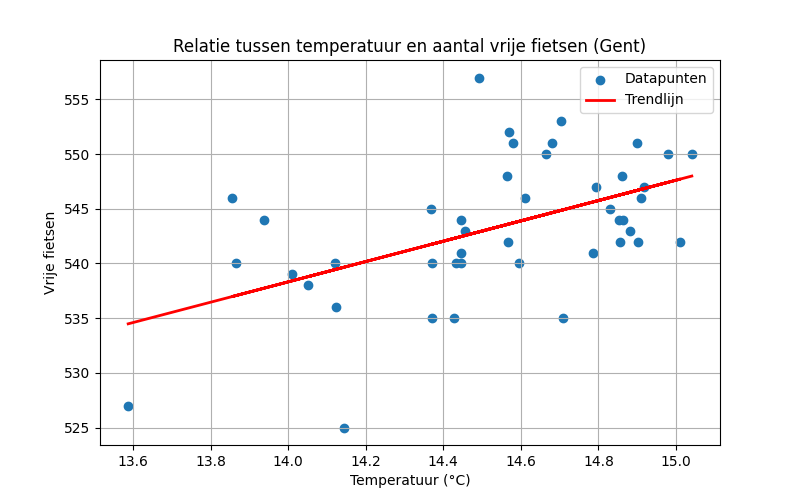
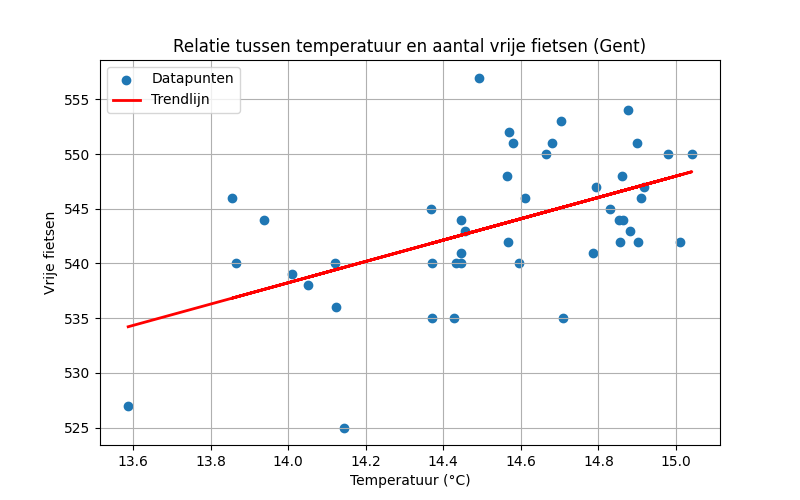
Automatische update 2025-11-14 23:45:09

diff --git a/reports/report.md b/reports/report.md
@@ -1,16 +1,16 @@
 # Data Workflow Rapport
 
-**Gegenereerd op:** 2025-11-14 23:41:26.940896
+**Gegenereerd op:** 2025-11-14 23:45:08.532286
 
 ## Grafiek: Vrije fietsen vs Temperatuur
 ![Fietsen vs Temp](reports/fiets_vs_temp.png)
 
 ## Basisstatistieken
-- Gemiddelde temperatuur: 14.54 °C
-- Gemiddeld aantal vrije fietsen: 543
+- Gemiddelde temperatuur: 14.55 °C
+- Gemiddeld aantal vrije fietsen: 544
 - Gemiddeld aantal fietsen overdag (7-19u): 543
 - Gemiddeld aantal fietsen ’s nachts (19-7u): 544
-- Correlatie: 0.53
+- Correlatie: 0.55
 
 ## Vrije fietsen per weekdag
 
